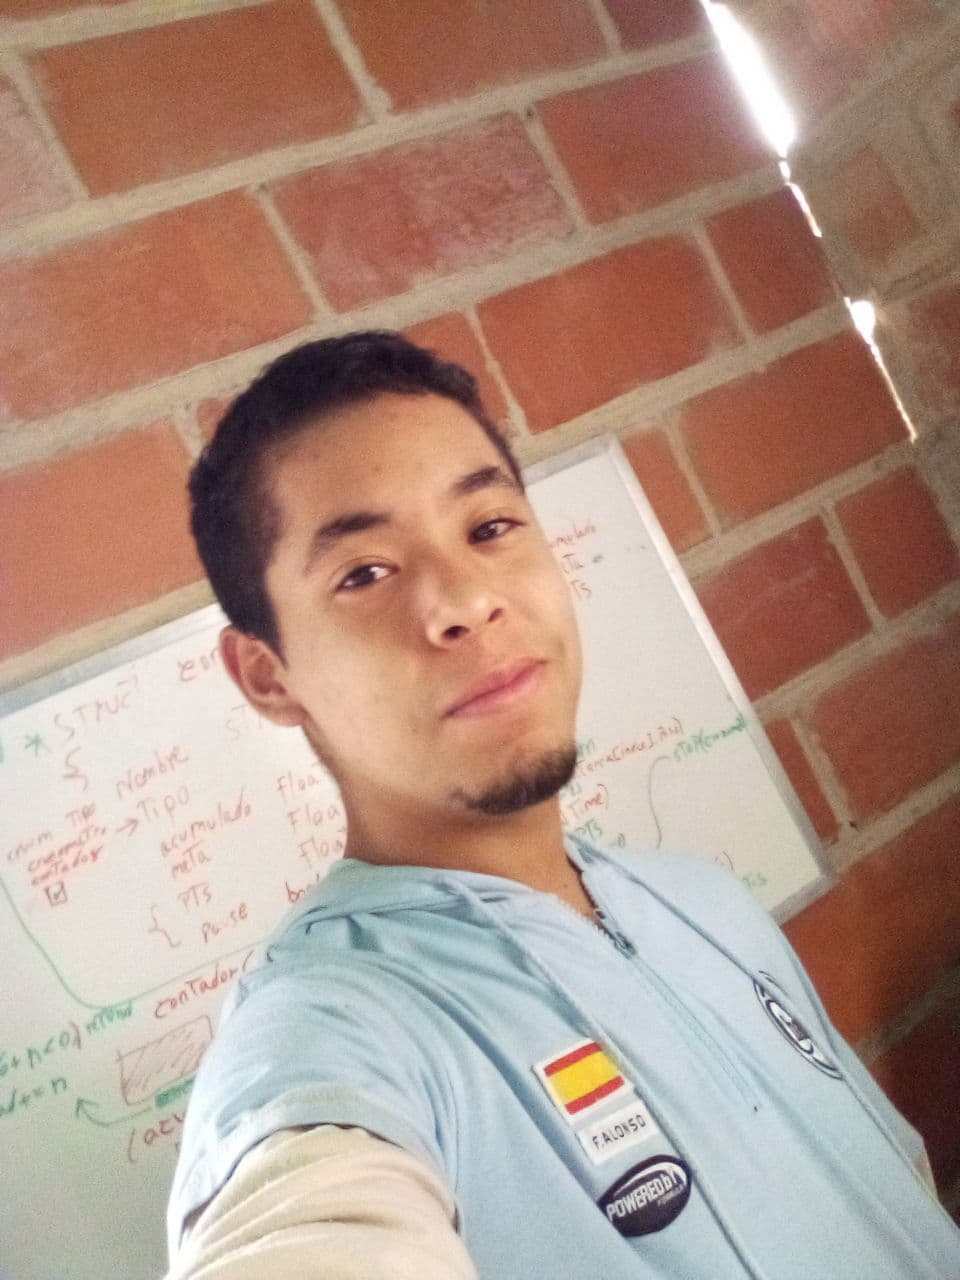
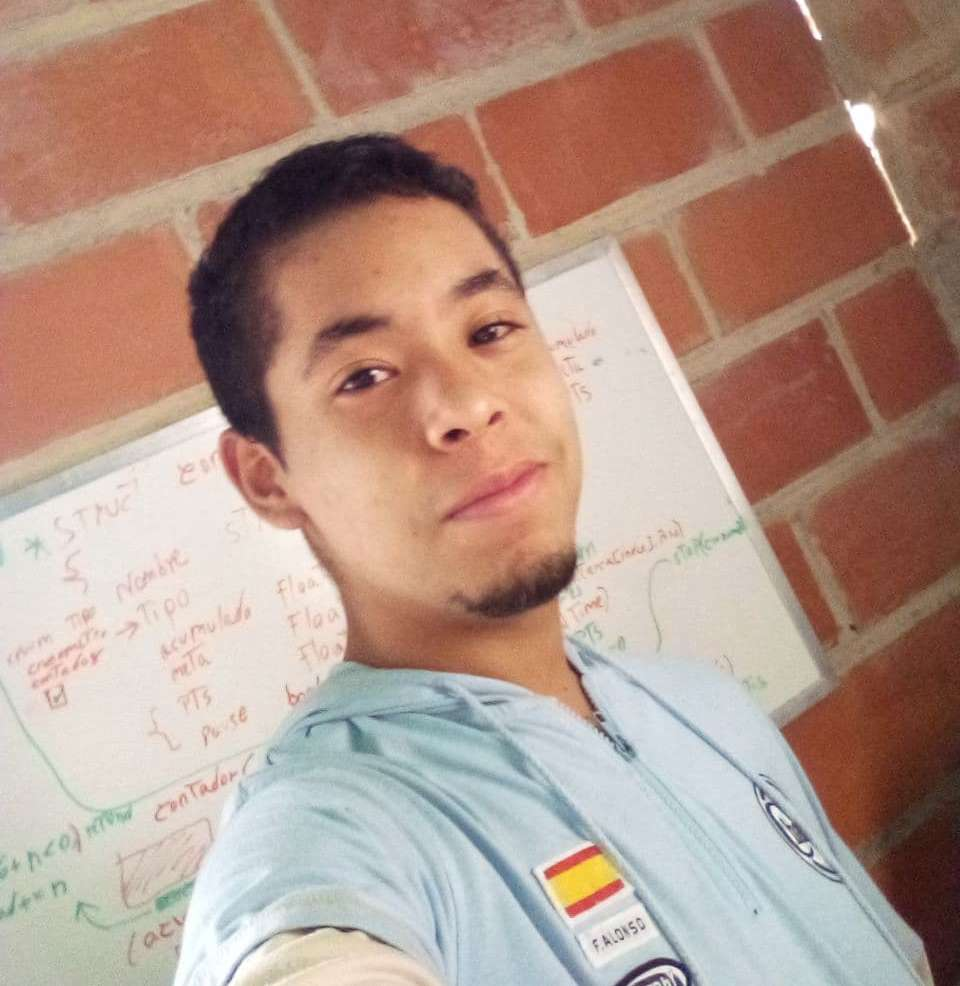
iconos y foto añadidos

diff --git a/index.html b/index.html
@@ -5,7 +5,7 @@
   <meta http-equiv="X-UA-Compatible" content="IE=edge">
   <meta name="viewport" content="width=device-width, initial-scale=1.0">
   <script src="https://kit.fontawesome.com/f8a1b8d9da.js" crossorigin="anonymous"></script>
-
+  
   <!-- archivos css -->
   <link rel="stylesheet" href="css/normalize.css">
   <link rel="stylesheet" href="css/variables-estilos.css">
@@ -36,20 +36,23 @@
         <h2 class="text-white26 shadow-b-2-2-3">Germán Alfonzo Castro Valdespino</h2>
         <p class="text-white16 shadow-b-0-0-7">estudiante de ingenieria en sistemas</p>
         <ul>
-          <li class="text-white16 shadow-b-0-0-7"><i class="fas fa-email text-white18"></i>germancastrov30@gmail.com</li>
-          <li class="text-white16 shadow-b-0-0-7"><i class="fas fa-whatsapp text-white18"></i>+58 4243365401</li>
-          <li><i class="fas fa-telegram text-white18"></i><a class="text-white16 shadow-b-0-0-7" href="https://t.me/zovalger.com" target="_blank" rel="noopener noreferrer">@zovalger</a></li>
-          <li><i class="fas fa-home text-white18"></i><a class="text-white16 shadow-b-0-0-7" href="https://google.map.com" target="_blank" rel="noopener noreferrer">Los Tanques, Villa de Cura 2126, Aragua
+          <li class="text-white16 shadow-b-0-0-7"><i class="fas fa-envelope"></i> germancastrov30@gmail.com</li>
+          <li class="text-white16 shadow-b-0-0-7"><i class="fab fa-whatsapp"></i>+58 4243365401</li>
+          <li><a class="text-white16 shadow-b-0-0-7" href="https://t.me/zovalger.com" target="_blank" rel="noopener noreferrer"><i class="fab fa-telegram-plane "></i> @zovalger</a></li>
+          <li><a class="text-white16 shadow-b-0-0-7" href="https://google.map.com" target="_blank" rel="noopener noreferrer"><i class="fas fa-home "></i> Los Tanques, Villa de Cura 2126, Aragua
           </a></li>
         </ul>
+        <br>
+        <hr>
+        <br>
         <div>
-          <a href="https://t.me/zovalger.com" target="_blank" rel="noopener noreferrer"><i class="fas fa-telegram text-white18"></i></a>
-          <a href="https://twitter.com/german63352618" target="_blank" rel="noopener noreferrer"><i class="fas fa-twitter text-white18"></i></a>
-          <a href="https://www.instagram.com/german_castro_v" target="_blank" rel="noopener noreferrer"><i class="fas fa-instagram text-white18"></i></a>
+          <a href="https://t.me/zovalger.com" target="_blank" rel="noopener noreferrer"><i class="fab fa-telegram-plane fa-3x"></i></a>
+          <a href="https://twitter.com/german63352618" target="_blank" rel="noopener noreferrer"><i class="fab fa-twitter fa-3x"></i></a>
+          <a href="https://www.instagram.com/german_castro_v" target="_blank" rel="noopener noreferrer"><i class="fab fa-instagram fa-3x"></i></a>
         </div>
       </div>
       <div class="personal-img-container">
-        <img class="img-ajustada-al-padre" src="img/IMG_20210401_204410 - copia.jpg" alt="">
+        <img class="img-ajustada-al-padre" src="img/photo_2021-03-31_14-17-46.jpg" alt="">
       </div>
     </div>
   </section>
@@ -68,28 +71,28 @@
           <!-- copia y pega -->
           <h4 class="text-white18 shadow-b-0-0-7 ">unity</h4>
           <div class="skill-bar-container-flex">
-            <i class="skills-item-icon align-self-center fas fa-home text-white18"></i>
+            <i class="skills-item-icon align-self-center fab fa-unity fa-2x"></i>
             <progress class="align-self-center barra-porcentaje" value="50" max="100"> </progress>
           </div>
 
           <!-- copia y pega -->
           <h4 class="text-white18 shadow-b-0-0-7">blender 2.79b</h4>
           <div class="skill-bar-container-flex">
-            <i class="skills-item-icon align-self-center fas fa-home text-white18"></i>
+            <i class="skills-item-icon align-self-center fas fa-cube fa-2x"></i>
             <progress class="align-self-center barra-porcentaje" value="25" max="100"> </progress>
           </div>
 
           <!-- copia y pega -->
           <h4 class="text-white18 shadow-b-0-0-7">photoshop cs6</h4>
           <div class="skill-bar-container-flex">
-            <i class="skills-item-icon align-self-center fas fa-home text-white18"></i>
+            <i class="skills-item-icon align-self-center fas fa-photo-video fa-2x"></i>
             <progress class="align-self-center barra-porcentaje" value="40" max="100"> </progress>
           </div>
 
           <!-- copia y pega -->
           <h4 class="text-white18 shadow-b-0-0-7">microsoft office</h4>
           <div class="skill-bar-container-flex">
-            <i class="skills-item-icon align-self-center fas fa-home text-white18"></i>
+            <i class="skills-item-icon align-self-center fas fa-file-word fa-2x"></i>
             <progress class="align-self-center barra-porcentaje" value="40" max="100"> </progress>
           </div>
           
@@ -104,22 +107,28 @@
           <!-- copia y pega -->
           <h4 class="text-white18 shadow-b-0-0-7">c#</h4>
           <div class="skill-bar-container-flex">
-            <i class="skills-item-icon align-self-center fas fa-home text-white18"></i>
+            <i class="skills-item-icon align-self-center fas fa-code fa-2x"></i>
             <progress class="align-self-center barra-porcentaje" value="40" max="100"> </progress>
           </div>
 
           <!-- copia y pega -->
           <h4 class="text-white18 shadow-b-0-0-7">javascript</h4>
           <div class="skill-bar-container-flex">
-            <i class="skills-item-icon align-self-center fas fa-home text-white18"></i>
+            <i class="skills-item-icon align-self-center fab fa-js-square fa-2x"></i>
             <progress class="align-self-center barra-porcentaje" value="35" max="100"> </progress>
           </div>
 
           <!-- copia y pega -->
-          <h4 class="text-white18 shadow-b-0-0-7">html y css</h4>
+          <h4 class="text-white18 shadow-b-0-0-7">html 5</h4>
           <div class="skill-bar-container-flex">
-            <i class="skills-item-icon align-self-center fas fa-home text-white18"></i>
-            <progress class="align-self-center barra-porcentaje" value="15" max="100"> </progress>
+            <i class="skills-item-icon align-self-center fab fa-html5 fa-2x"></i>
+            <progress class="align-self-center barra-porcentaje" value="20" max="100"> </progress>
+          </div>
+          <!-- copia y pega -->
+          <h4 class="text-white18 shadow-b-0-0-7">css3</h4>
+          <div class="skill-bar-container-flex">
+            <i class="skills-item-icon align-self-center fab fa-css3-alt fa-2x"></i>
+            <progress class="align-self-center barra-porcentaje" value="20" max="100"> </progress>
           </div>
           
         </div>
@@ -133,21 +142,21 @@
           <!-- copia y pega -->
           <h4 class="text-white18 shadow-b-0-0-7">dibujo</h4>
           <div class="skill-bar-container-flex">
-            <i class="skills-item-icon align-self-center fas fa-home text-white18"></i>
+            <i class="skills-item-icon align-self-center fas fa-paint-brush fa-2x"></i>
             <progress class="align-self-center barra-porcentaje" value="70" max="100"> </progress>
           </div>
 
           <!-- copia y pega -->
           <h4 class="text-white18 shadow-b-0-0-7">responsabilidad</h4>
           <div class="skill-bar-container-flex">
-            <i class="skills-item-icon align-self-center fas fa-home text-white18"></i>
+            <i class="skills-item-icon align-self-center fas fa-business-time fa-2x"></i>
             <progress class="align-self-center barra-porcentaje" value="80" max="100"> </progress>
           </div>
 
           <!-- copia y pega -->
           <h4 class="text-white18 shadow-b-0-0-7">trabajo en equipo</h4>
           <div class="skill-bar-container-flex">
-            <i class="skills-item-icon align-self-center fas fa-home text-white18"></i>
+            <i class="skills-item-icon align-self-center fas fa-users-cog fa-2x"></i>
             <progress class="align-self-center barra-porcentaje" value="50" max="100"> </progress>
           </div>
 
@@ -168,24 +177,25 @@
 
         <!-- titulo -->
         <div class="section__job-item-titulo flex aling-content-center ">
-          <i class="section__job-item-icon align-self-center"></i>
+          <i class="section__job-item-icon align-self-center fas fa-school fa-2x"></i>
           <p class="text-white18 shadow-b-2-2-3 align-self-center">Primaria</p>
         </div>
 
         <!-- direccion y contacto -->
         <div class="section__job-item-contact-container">
           <div class="section__job-item-contact-container-flex">
-            <i class="section__job-item-contact-item fas fa-home section__job-item-icon text-white18"></i>
-            <a class="section__job-item-contact-item text-white16" href="http://google.map.com" target="_blank" rel="noopener noreferrer">U.E.N. "salomon morales"</a>
+            <i class="section__job-item-contact-item section__job-item-icon far fa-building"></i>
+            <p class="section__job-item-contact-item text-white16">U.E.N. "salomon morales""</p>
+            <!-- <a class="section__job-item-contact-item text-white16" href="http://google.map.com" target="_blank" rel="noopener noreferrer">U.E.N. "salomon morales"</a> -->
           </div>
           <div class="section__job-item-contact-container-flex">
-            <i class="section__job-item-contact-item fas fa-home section__job-item-icon text-white18"></i>
-            <a class="section__job-item-contact-item text-white16" href="http://google.map.com" target="_blank" rel="noopener noreferrer">villa de cura, aragua</a>
+            <i class="section__job-item-contact-item section__job-item-icon fas fa-map-marker-alt"></i>
+            <a class="section__job-item-contact-item text-white16" href="https://www.google.com/maps/place/10%C2%B002'28.4%22N+67%C2%B031'25.8%22W/@10.0412196,-67.5249263,310m/data=!3m2!1e3!4b1!4m6!3m5!1s0x0:0x0!7e2!8m2!3d10.0412171!4d-67.5238315" target="_blank" rel="noopener noreferrer"> Villa de cura, Aragua</a>
           </div>
-          <div class="section__job-item-contact-container-flex">
+          <!-- <div class="section__job-item-contact-container-flex">
             <i class="section__job-item-contact-item fas fa-whatsapp section__job-item-icon text-white18"></i>
             <p class="section__job-item-contact-item text-white16">+58 424-123.45.67</p>
-          </div>
+          </div> -->
         </div>
 
         <!-- separacion -->
@@ -201,24 +211,25 @@
 
         <!-- titulo -->
         <div class="section__job-item-titulo flex aling-content-center ">
-          <i class="section__job-item-icon align-self-center"></i>
+          <i class="section__job-item-icon align-self-center fas fa-graduation-cap fa-2x"></i>
           <p class="text-white18 shadow-b-2-2-3 align-self-center">Secundaria</p>
         </div>
 
         <!-- direccion y contacto -->
         <div class="section__job-item-contact-container">
           <div class="section__job-item-contact-container-flex">
-            <i class="section__job-item-contact-item fas fa-home section__job-item-icon text-white18"></i>
-            <a class="section__job-item-contact-item text-white16" href="http://google.map.com" target="_blank" rel="noopener noreferrer">U.E.N. "German Cordero Padron"</a>
+            <i class="section__job-item-contact-item section__job-item-icon far fa-building"></i>
+            <p class="section__job-item-contact-item text-white16">U.E.N. "German Cordero Padron"</p>
+            <!-- <a class="section__job-item-contact-item text-white16" href="http://google.map.com" target="_blank" rel="noopener noreferrer">U.E.N. "German Cordero Padron"</a> -->
           </div>
           <div class="section__job-item-contact-container-flex">
-            <i class="section__job-item-contact-item fas fa-home section__job-item-icon text-white18"></i>
-            <a class="section__job-item-contact-item text-white16" href="http://google.map.com" target="_blank" rel="noopener noreferrer">villa de cura, aragua</a>
+            <i class="section__job-item-contact-item section__job-item-icon fas fa-map-marker-alt"></i>
+            <a class="section__job-item-contact-item text-white16" href="https://www.google.com/maps/place/10%C2%B002'25.2%22N+67%C2%B031'27.3%22W/@10.0403256,-67.5253563,310m/data=!3m2!1e3!4b1!4m6!3m5!1s0x0:0x0!7e2!8m2!3d10.040323!4d-67.5242624" target="_blank" rel="noopener noreferrer">Villa de cura, aragua</a>
           </div>
-          <div class="section__job-item-contact-container-flex">
+          <!-- <div class="section__job-item-contact-container-flex">
             <i class="section__job-item-contact-item fas fa-whatsapp section__job-item-icon text-white18"></i>
             <p class="section__job-item-contact-item text-white16">+58 424-123.45.67</p>
-          </div>
+          </div> -->
         </div>
 
         <!-- separacion -->
@@ -234,24 +245,24 @@
 
         <!-- titulo -->
         <div class="section__job-item-titulo flex aling-content-center ">
-          <i class="section__job-item-icon align-self-center"></i>
+          <i class="section__job-item-icon align-self-center fas fa-university fa-2x"></i>
           <p class="text-white18 shadow-b-2-2-3 align-self-center">Universidad</p>
         </div>
 
         <!-- direccion y contacto -->
         <div class="section__job-item-contact-container">
           <div class="section__job-item-contact-container-flex">
-            <i class="section__job-item-contact-item fas fa-home section__job-item-icon text-white18"></i>
-            <a class="section__job-item-contact-item text-white16" href="http://google.map.com" target="_blank" rel="noopener noreferrer">Romulo gallegos "UNERG"</a>
+            <i class="section__job-item-contact-item section__job-item-icon far fa-building"></i>
+            <a class="section__job-item-contact-item text-white16" href="https://es.wikipedia.org/wiki/Universidad_Nacional_Experimental_R%C3%B3mulo_Gallegos" target="_blank" rel="noopener noreferrer">Romulo gallegos "UNERG"</a>
           </div>
           <div class="section__job-item-contact-container-flex">
-            <i class="section__job-item-contact-item fas fa-home section__job-item-icon text-white18"></i>
-            <a class="section__job-item-contact-item text-white16" href="http://google.map.com" target="_blank" rel="noopener noreferrer">San juan de los morros, Guarico</a>
+            <i class="section__job-item-contact-item section__job-item-icon fas fa-map-marker-alt"></i>
+            <a class="section__job-item-contact-item text-white16" href="https://www.google.com/maps/place/9%C2%B053'51.9%22N+67%C2%B023'21.6%22W/@9.8977574,-67.3911725,619m/data=!3m2!1e3!4b1!4m6!3m5!1s0x0:0x0!7e2!8m2!3d9.8977533!4d-67.3893323" target="_blank" rel="noopener noreferrer">San juan de los morros, Guarico</a>
           </div>
-          <div class="section__job-item-contact-container-flex">
+          <!-- <div class="section__job-item-contact-container-flex">
             <i class="section__job-item-contact-item fas fa-whatsapp section__job-item-icon text-white18"></i>
             <p class="section__job-item-contact-item text-white16">+58 424-123.45.67</p>
-          </div>
+          </div> -->
         </div>
 
         <!-- separacion -->

diff --git a/css/personal-info.css b/css/personal-info.css
@@ -54,15 +54,37 @@
 .personal-info div{
     display: flex;
     
+    /* background-color: #555; */
+
+    flex-wrap: wrap;
+        
+    justify-content: space-evenly;
 }
 .personal-info div a{
-    flex-basis: 30px;
-    height: 30px;
+    display: inline-flex;
+    /* align-content: center; */
+    align-items: center;
+    justify-content: center;
+
+
+    flex-basis: 50px;
+    height: 50px;
     margin: 10px;
+
+    /* align-content: center; */
     
-    background: #555;
+    /* background: #555; */
 
     transition: transform 0.1s;
+}
+.personal-info div a i{
+    
+
+    color: #fff;
+    /* width: 30px;
+    height: 30px;  */
+
+    
 }
 .personal-info div a:hover{
     transform: var(--simple-zoom-1);

diff --git a/css/job-styles.css b/css/job-styles.css
@@ -68,11 +68,24 @@
 /* iconos dentro de cada trabajo */
 .section__job-item-icon{
     display: inline-block;
-    width: 25px;
-    height: 25px;
-    background: black;
-    margin-right: 5px;
+    /* width: 25px;
+    height: 25px; */
+    /* background: black; */
+    /* margin-left: 10px;
+
+    margin-right: 15px; */
     transition: transform 0.1s;
+
+    flex-shrink: 0;
+    /* flex-basis: 30px;
+    height: 30px; */
+    /* background: black; */
+
+    color: #fff;
+    margin: 0 8px;
+    /* margin-right: 3px;
+    margin-left: 3px; */
+    transition: 0.1s;
 }
 .section__job-item-icon:hover{
 

diff --git a/css/skills-styles.css b/css/skills-styles.css
@@ -76,10 +76,11 @@
 /* icono de las habilidades individuales */
 .skills-item-icon{
     flex-shrink: 0;
-    flex-basis: 30px;
-    height: 30px;
-    background: black;
+    /* flex-basis: 30px;
+    height: 30px; */
+    /* background: black; */
 
+    color: #fff;
     margin: 0 3px;
     /* margin-right: 3px;
     margin-left: 3px; */

diff --git a/css/animaciones.css b/css/animaciones.css
@@ -1,4 +1,4 @@
-@keyframes from-left-to-right{
+/* @keyframes from-left-to-right{
     0%{
         transform: translateX(-1000px);
         opacity: 0;
@@ -39,4 +39,4 @@
         transform: scaleY(1);
         opacity: 1;
     }
-}
+} */
